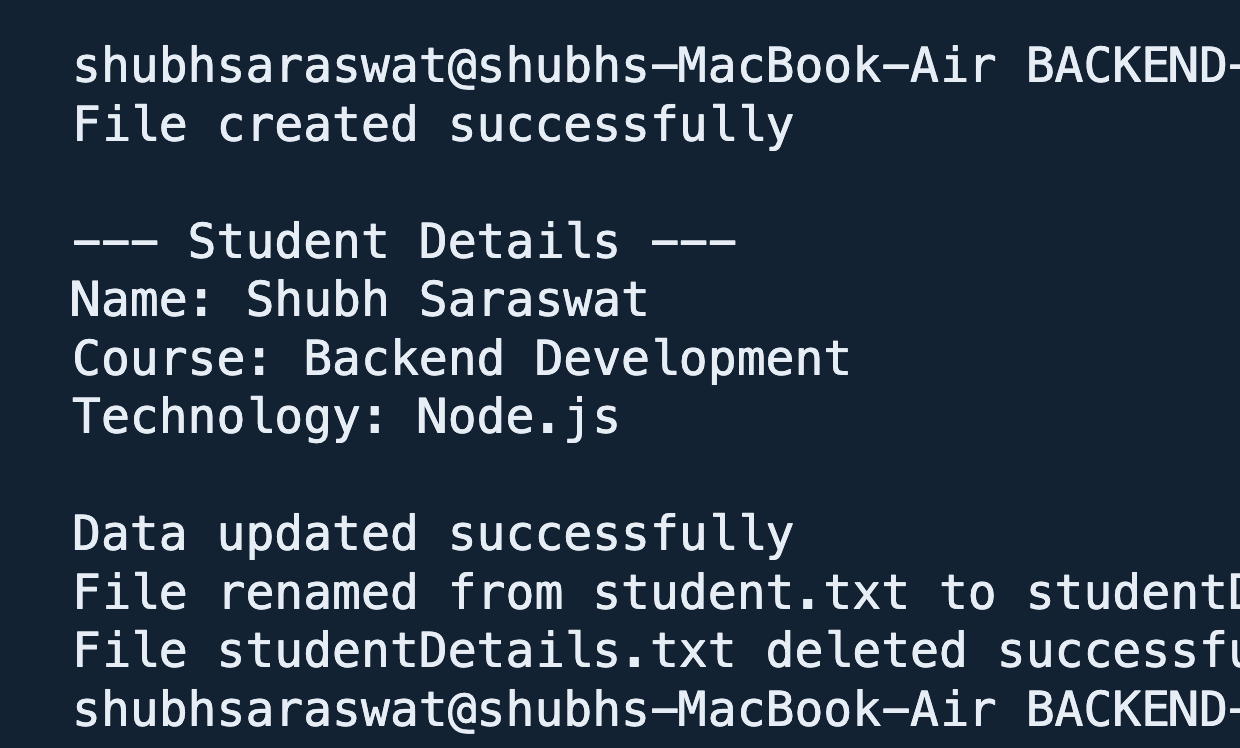
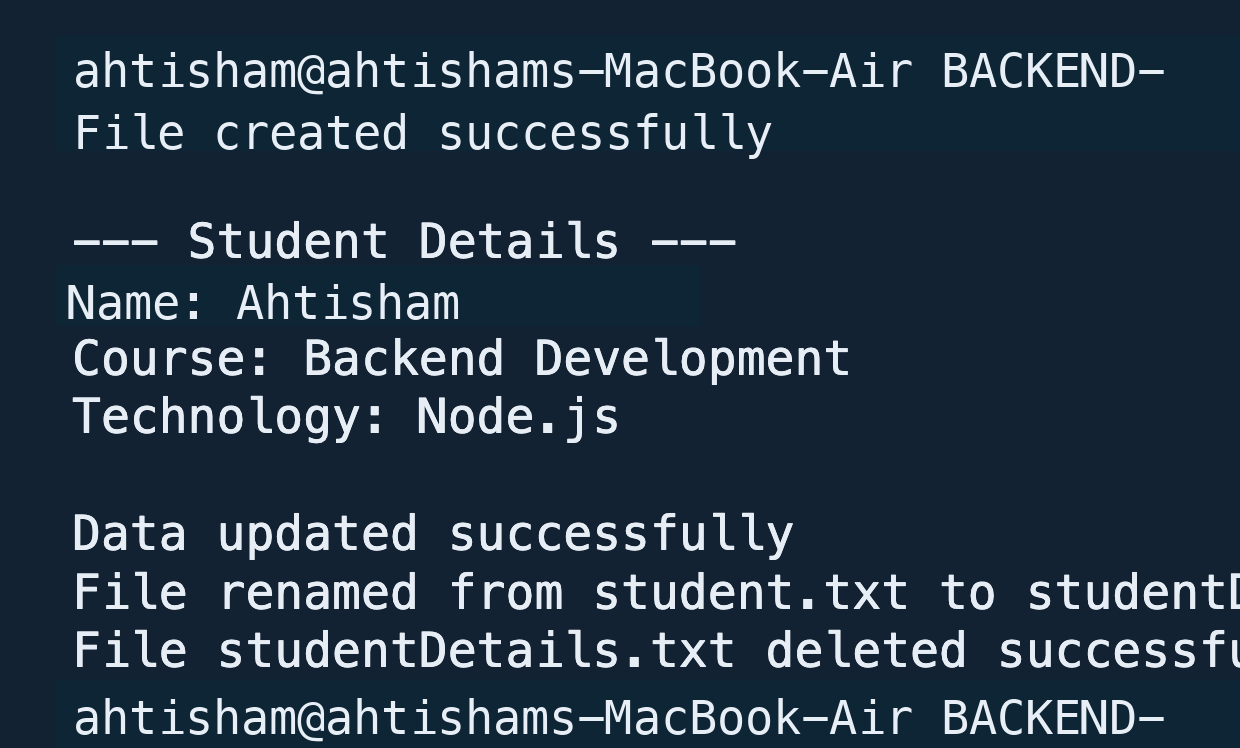
Update assignment identity and screenshots

Changed region(s): [[0.0613, 0.0615, 1.0, 0.2152], [0.0613, 0.9225, 1.0, 1.0], [0.0306, 0.369, 0.521, 0.4305]]

diff --git a/assignment_2/assignment2.js b/assignment_2/assignment2.js
@@ -15,7 +15,7 @@ const server = http.createServer((req, res) => {
                 <h1>Student Portal</h1>
                 <hr>
 
-                <p><strong>Name:</strong> Shubh Saraswat</p>
+                <p><strong>Name:</strong> Ahtisham</p>
                 <p><strong>Course:</strong> BTech in Computer Science</p>
                 <p><strong>College:</strong> ITM College</p>
 

diff --git a/assignment_4/Assignment4.3.js b/assignment_4/Assignment4.3.js
@@ -8,7 +8,7 @@ const server = http.createServer((req, res) => {
         res.writeHead(200, { 'Content-Type': 'application/json' });
         const studentData = {
             id: 101,
-            name: "Shubh Saraswat",
+            name: "Ahtisham",
             course: "Btech AIML",
             semester: 3,
             city: "Mumbai"

diff --git a/assignment_4/Assignment4.2.js b/assignment_4/Assignment4.2.js
@@ -11,7 +11,7 @@ const server = http.createServer((req, res) => {
 <body>
     <h1>Student Portal</h1>
     <hr>
-    <p><strong>Name:</strong> Shubh Saraswat</p>
+    <p><strong>Name:</strong> Ahtisham</p>
     <p><strong>Course:</strong> Backend Development</p>
     <p><strong>College:</strong> Itm College</p>
     <br>

diff --git a/assignment_3/index.js b/assignment_3/index.js
@@ -1,6 +1,6 @@
 const fs = require('fs');
 
-const initialContent = `Name: Shubh Saraswat
+const initialContent = `Name: Ahtisham
 Course: Backend Development
 Technology: Node.js`;
 

diff --git a/assignment_7/README.md b/assignment_7/README.md
@@ -41,8 +41,8 @@ The `GET /search` route reads optional `name` and `course` values from `req.quer
 With both query parameters:
 
 ```text
-GET /search?name=Shubh&course=Node.js
-Name: Shubh
+GET /search?name=Ahtisham&course=Node.js
+Name: Ahtisham
 Course: Node.js
 ```
 
@@ -60,9 +60,9 @@ The route also handles requests containing only `name` or only `course`.
 The `GET /student/:id` route combines a route parameter with query parameters.
 
 ```text
-GET /student/101?name=Shubh&course=Backend
+GET /student/101?name=Ahtisham&course=Backend
 Student ID: 101
-Name: Shubh
+Name: Ahtisham
 Course: Backend
 ```
 

diff --git a/assignment_3/README.md b/assignment_3/README.md
@@ -17,7 +17,7 @@ This assignment demonstrates basic file management operations using Node.js's bu
 The program initially writes:
 
 ```text
-Name: Shubh Saraswat
+Name: Ahtisham
 Course: Backend Development
 Technology: Node.js
 ```
@@ -52,7 +52,7 @@ node index.js
 File created successfully
 
 --- Student Details ---
-Name: Shubh Saraswat
+Name: Ahtisham
 Course: Backend Development
 Technology: Node.js
 

diff --git a/assignment_2/README.md b/assignment_2/README.md
@@ -29,7 +29,7 @@ The `assignment2.js` file:
 The page displays:
 
 ```text
-Name: Shubh Saraswat
+Name: Ahtisham
 Course: BTech in Computer Science
 College: ITM College
 ```
@@ -72,7 +72,7 @@ The browser displays:
 ```text
 Student Portal
 
-Name: Shubh Saraswat
+Name: Ahtisham
 Course: BTech in Computer Science
 College: ITM College
 
